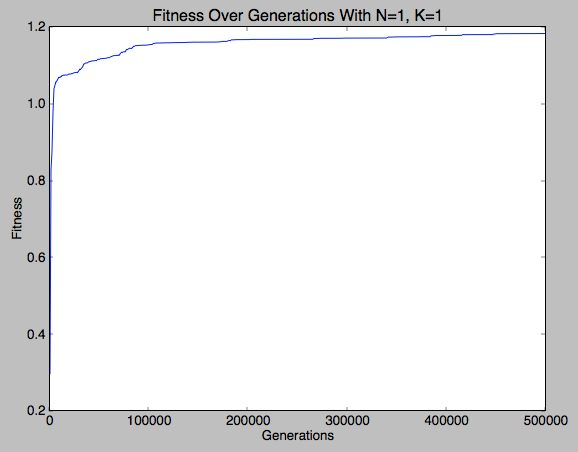
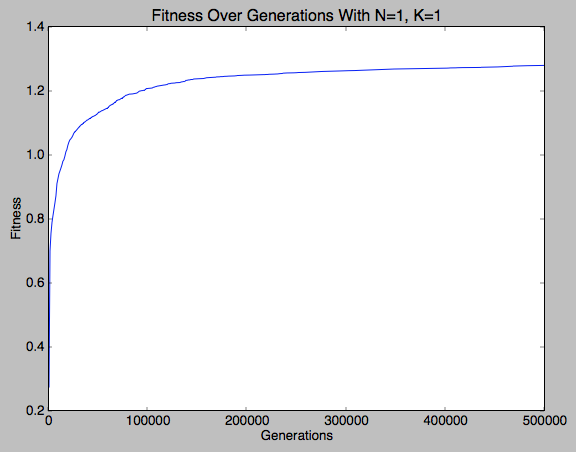
Upload haystack animations

diff --git a/report.html b/report.html
@@ -88,16 +88,37 @@ Coordinates of vertices were moved using a Gaussian distribution of mean 0 and s
 Components of colors (0-255 scale) were altered using a Gaussian distribution of mean 0 and standard deviation 25.
 </p>
 <p>
+At office hours, I was advised to use the same mutations as the sample because my images weren't coming out nicely:
+<ul>
+<li>With 1/5 probability, replace a polygon with a random triangle.</li>
+<li>With 1/5 probability, swap the order of two polygons which are in adjacent depth layers.</li>
+<li>With 3/5 probability, mutate an existing polygon:
+<ul>
+<li>With 1/2 probability, alter the color slightly.</li>
+<li>With 1/2 probability, alter the shape of the polygon:
+<ul>
+<li>With 1/3 probability, remove a vertex.</li>
+<li>With 1/3 probability, add a vertex at a random point.</li>
+<li>With 1/3 probability, move a vertex slightly.</li>
+</ul></li>
+</ul></li>
+</ul>
+
+<p>
+However, this did not solve the problem. It turned out I hadn't been using the pygame draw functionality correctly. Unfortunately, it would take several days to regenerate all the animations, so I stuck with these mutations.
+</p>
+
+Coordinates of vertices were moved using a Gaussian distribution of mean 0 and standard deviation IMG_SIZE/5 pixels.
+Components of colors (0-255 scale) were altered using a Gaussian distribution of mean 0 and standard deviation 25.
+</p>
+<p>
 Random triangles were created by picking a point on the image with uniform distribution,
 then adding a Gaussian distribution of mean 0 and
-standard deviation IMG_SIZE/10 of the image width to the point to obtain the vertices.
+standard deviation IMG_SIZE/10 to obtain the vertices.
 Random colors were picked using uniform distribution over the RGB color space.
 </p>
 <p>
-Parents were selected from an array of individuals sorted in decreasing order of fitness
-using the index <code>Rand.nextInt(Rand.nextInt(n) + 1)</code> where Rand.nextInt(m) returns a
-random integer uniformly distributed between 0 and m-1 inclusive. This made the more fit individuals
-more likely to be chosen for crossover.
+Parents were selected proportional to their fitness. This was done with a weighted average where if parent i has f_i fitness, and the sum of the fitness over all parents was f, then parent i has probability f_i/f of being selected.
 </p>
 </body>
 </html>

diff --git a/Plot.py b/Plot.py
@@ -118,7 +118,7 @@ class Plot( object ):
                 
          
     
-Plot.plot_data( "darwin.out" )
+Plot.plot_data( "haystack.out" )
 #Plot.plot_tuning( "turing_tuning.out" )
 #Plot.plot_tuning_average([ "darwin_tuning.out" , "haystack_tuning.out" , "michigan_tuning.out" , "mona_lisa_tuning.out" , "turing_tuning.out"] )
     

diff --git a/GenAPNG.py b/GenAPNG.py
@@ -12,4 +12,4 @@ def gen( directory ):
     
     print cmd
     
-gen( "darwin" )
+gen( "haystack" )
